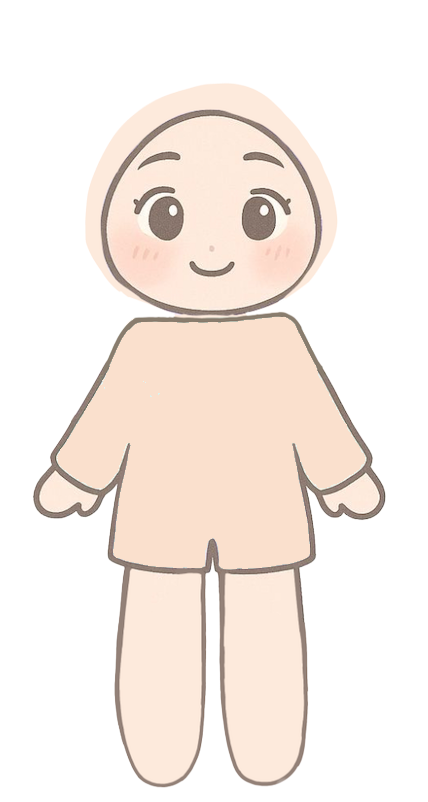
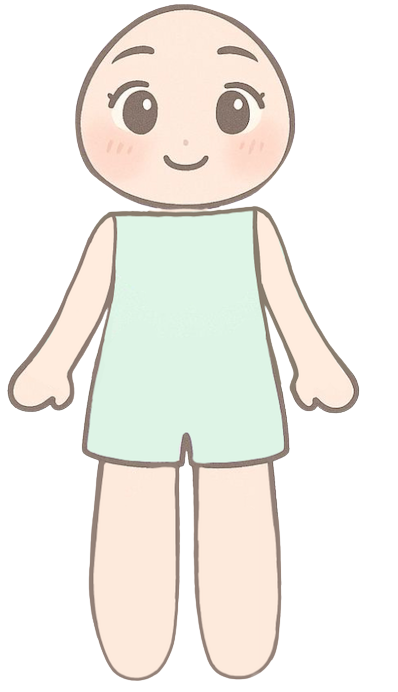
fixed doll game layout

diff --git a/app.js b/app.js
@@ -259,19 +259,19 @@ const ACTIVITY_CHIPS = [
 const DOLL_BASE_IMG = "assets/base_doll.png";
 
 const CLOTHING_ITEMS = [
-  { id:"hijab", zone:"head", modest:true, label:"Hijab", img:"assets/hijab.png", w:95, top:6, z:4 },
-  { id:"hair", zone:"head", modest:false, label:"Hair Down", img:"assets/hair.png", w:200, top:8, z:4 },
-  { id:"shirt_long", zone:"top", modest:true, label:"Long-Sleeve Top", img:"assets/shirt_long.png", w:97, top:36, z:3 },
-  { id:"shirt_short", zone:"top", modest:false, label:"Short-Sleeve Top", img:"assets/shirt_short.png", w:97, top:34, z:3 },
-  { id:"pants", zone:"bottom", modest:true, label:"Loose Pants", img:"assets/pants.png", w:85, top:57, z:2 },
-  { id:"skirt_long", zone:"bottom", modest:true, label:"Long Skirt", img:"assets/skirt_long.png", w:96, top:54, z:2 },
-  { id:"skirt_short", zone:"bottom", modest:false, label:"Short Skirt", img:"assets/skirt_short.png", w:67, top:62, z:2 },
-  { id:"shorts", zone:"bottom", modest:false, label:"Shorts", img:"assets/shorts.png", w:41, top:58, z:2 },
+  { id:"hijab", zone:"head", modest:true, label:"Hijab", img:"assets/hijab.png", w:90, top:-4,left:43, z:4 },
+  { id:"hair", zone:"head", modest:false, label:"Hair Down", img:"assets/hair.png", w:100, top:-4, left:43, z:4 },
+  { id:"shirt_long", zone:"top", modest:true, label:"Long-Sleeve Top", img:"assets/shirt_long.png", w:100, top:24, left:43, z:3 },
+  { id:"shirt_short", zone:"top", modest:false, label:"Short-Sleeve Top", img:"assets/shirt_short.png", w:97, top:24, left:50, z:3 },
+  { id:"pants", zone:"bottom", modest:true, label:"Loose Pants", img:"assets/pants.png", w:87, top:53, left:50, z:2 },
+  { id:"skirt_long", zone:"bottom", modest:true, label:"Long Skirt", img:"assets/skirt_long.png", w:96, top:48, left:48, z:2 },
+  { id:"skirt_short", zone:"bottom", modest:false, label:"Short Skirt", img:"assets/skirt_short.png", w:70, top:50, left:49, z:2 },
+  { id:"shorts", zone:"bottom", modest:false, label:"Shorts", img:"assets/shorts.png", w:80, top:50, left:49, z:2 },
 ];
 
 function clothingLayer(item){
   if (!item) return "";
-  return `<img class="cloth-layer" src="${item.img}" alt="${item.label}" style="width:${item.w}%; top:${item.top}%; z-index:${item.z};" />`;
+  return `<img class="cloth-layer" src="${item.img}" alt="${item.label}" style="width:${item.w}%; top:${item.top}%; left:${item.left}%; z-index:${item.z};" />`;
 }
 
 function buildDoll(d){